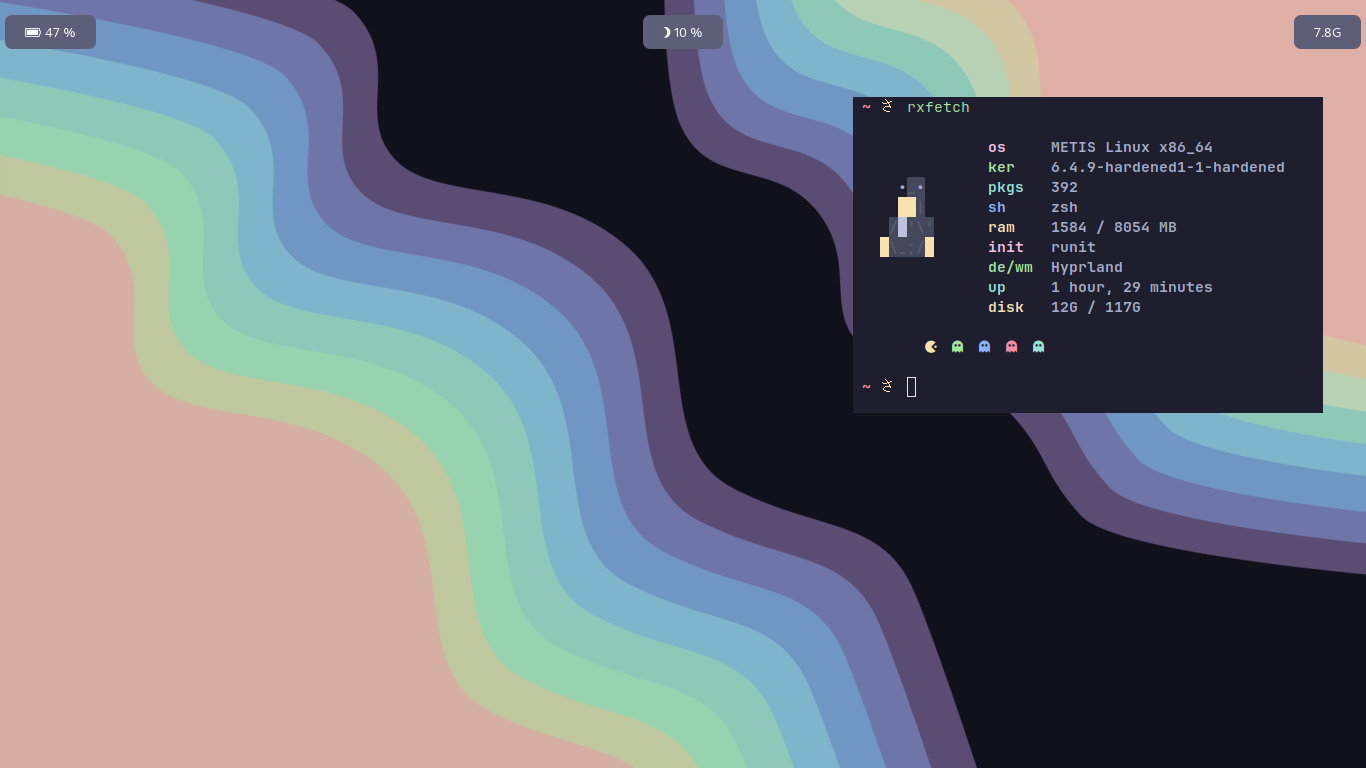
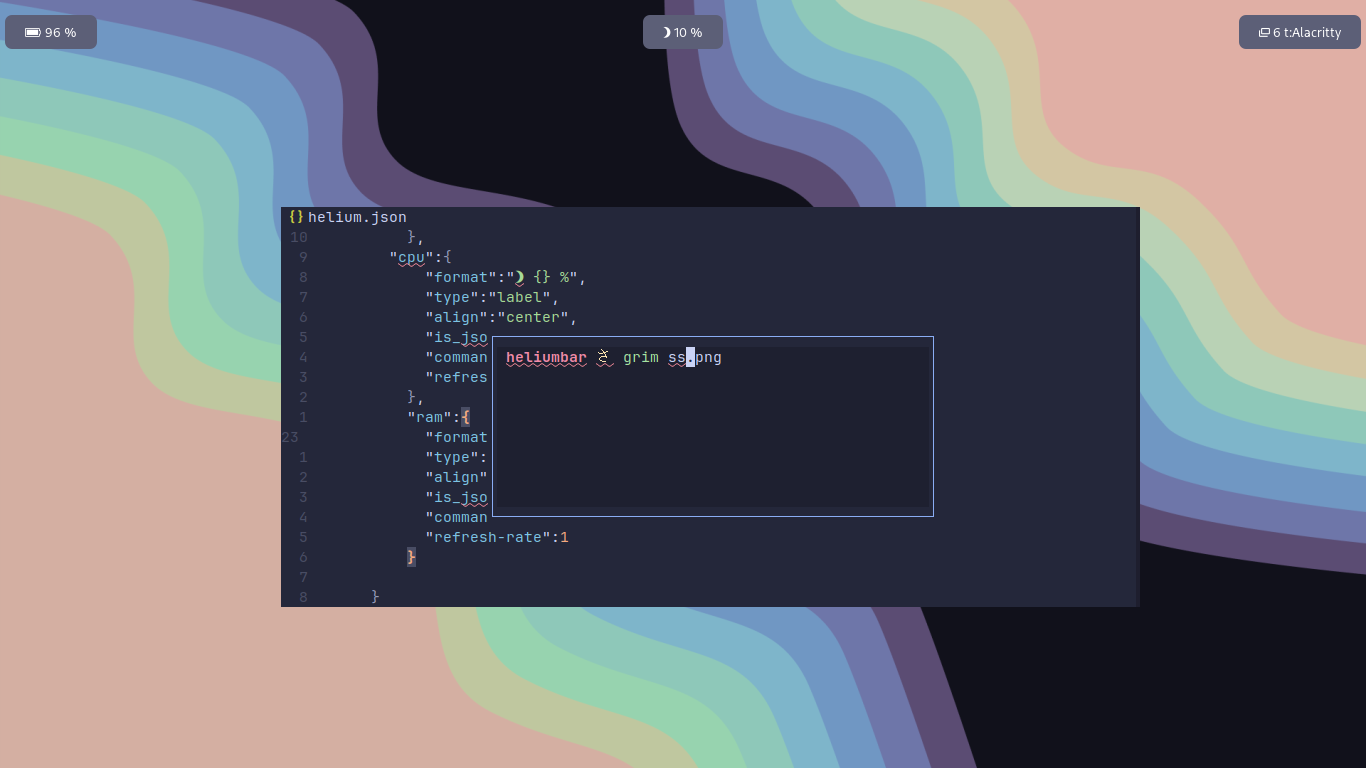
feat(modules): dbus to show utils

diff --git a/examples/style.css b/examples/style.css
@@ -1,17 +1,18 @@
 .root{
-  font-size:17px;
+  font-size:13px;
   margin-top:10px;
+  padding: 1px;
 }
 
 .time,.cpu,.ram{
-  background-color:grey;
+  background-color:#5c5f77;
   padding:8px 20px;
   border-radius:7px;
   color:white;
 }
 
 .toggle{
-  background-color:#000000;
+  background-color:#a832a4;
   font-size:20px;
   color:red;
   padding:5px 30px;
@@ -19,6 +20,6 @@
 
 
 .root{
-  padding:0 50px;
+  padding:5px 5px;
 }
 

diff --git a/src/main.rs b/src/main.rs
@@ -1,17 +1,14 @@
+use gtk::prelude::{ApplicationExt, ApplicationExtManual};
 mod config;
+mod modules;
 mod ui;
 mod utils;
 mod widgets;
 
-use gtk::prelude::{ApplicationExt, ApplicationExtManual};
-use crate::ui::elements::build_ui;
-
-fn main() -> gtk::glib::ExitCode {
+#[tokio::main]
+async fn main() -> gtk::glib::ExitCode {
     const APP_ID: &str = "com.heliumbar";
-
     let app = gtk::Application::builder().application_id(APP_ID).build();
-
-    // utils::regex_matcher::format();
-    app.connect_activate(build_ui);
+    app.connect_activate(crate::ui::elements::build_ui);
     app.run()
 }

diff --git a/src/modules/power.rs b/src/modules/power.rs
@@ -1,0 +1,17 @@
+// use futures::stream::StreamExt;
+use upower_dbus::UPowerProxy;
+
+pub fn power_info () -> zbus::Result<()>  {
+futures::executor::block_on(async move {
+        let connection = zbus::Connection::system().await?;
+
+        let upower = UPowerProxy::new(&connection).await?;
+
+        let device = upower.get_display_device().await?;
+
+        println!("Battery: {:?}", device.percentage().await);
+
+        Ok(())
+    })
+
+}

diff --git a/src/modules/mod.rs b/src/modules/mod.rs
@@ -1,0 +1,2 @@
+pub mod power;
+pub use power::*;
